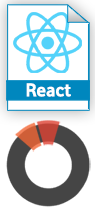
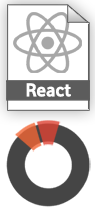
ling react greyscale

Changed region(s): [[0.0632, 0.0, 0.9474, 0.5455]]

diff --git a/css/style.css b/css/style.css
@@ -539,7 +539,7 @@
     }
     #sidebar ul:hover li {
         width: 42px;
-        height: 95px;
+        height: 98px;
     }
     #header p {
         font-size: 48px;
